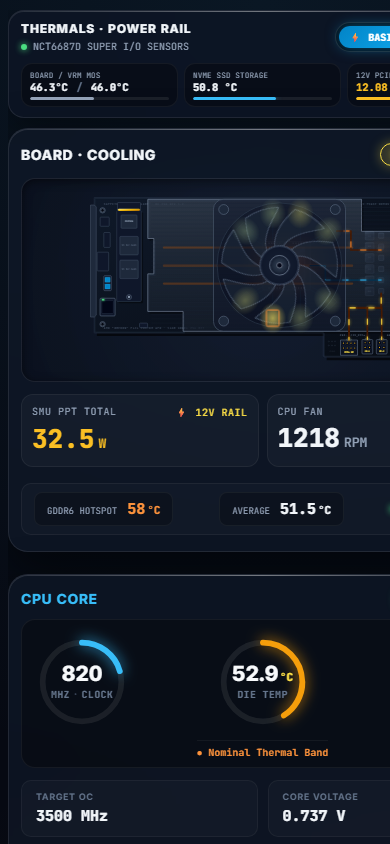
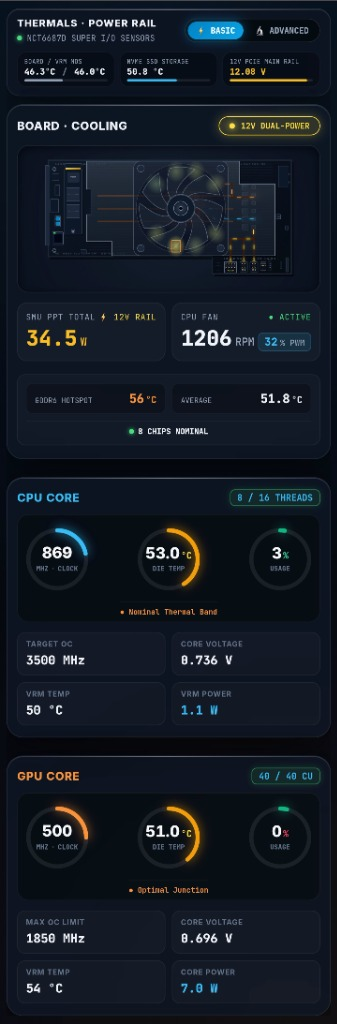
docs: Add real device mobile screenshots for Basic and Advanced views in README

diff --git a/README.md b/README.md
@@ -18,9 +18,9 @@ Engineered for enthusiasts running Linux gaming systems (**CachyOS**, **Bazzite*
 | :---: | :---: |
 | ![Desktop Basic Mode](images/dashboard-basic.png) | ![Desktop Advanced Mode](images/dashboard-advanced.png) |
 
-| Mobile Cockpit (PWA Standalone App) | Official App Icon (Oberon Silicon Die) |
-| :---: | :---: |
-| <img src="images/mobile-cockpit.png" width="340" alt="Mobile Cockpit PWA" /> | <img src="images/app-icon.png" width="180" alt="App Icon" /> |
+| Mobile: Basic View (Daily Drive) | Mobile: Advanced View (Telemetry) | Official App Icon (Oberon Die) |
+| :---: | :---: | :---: |
+| <img src="images/mobile-basic.png" width="270" alt="Mobile Basic Mode" /> | <img src="images/mobile-advanced.png" width="180" alt="Mobile Advanced Mode" /> | <img src="images/app-icon.png" width="160" alt="Official App Icon" /> |
 
 ---
 
